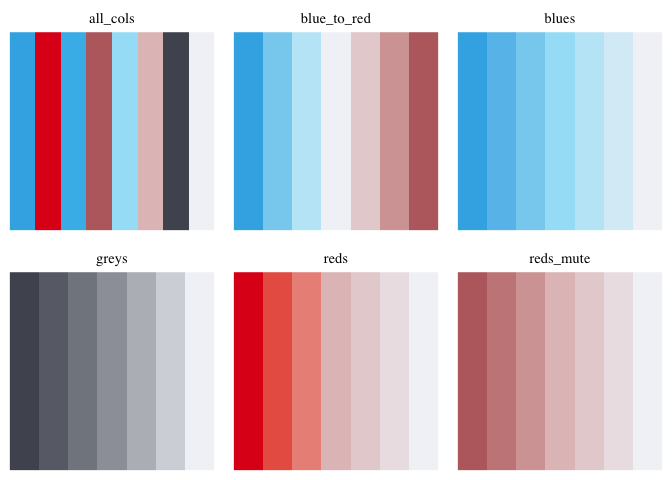
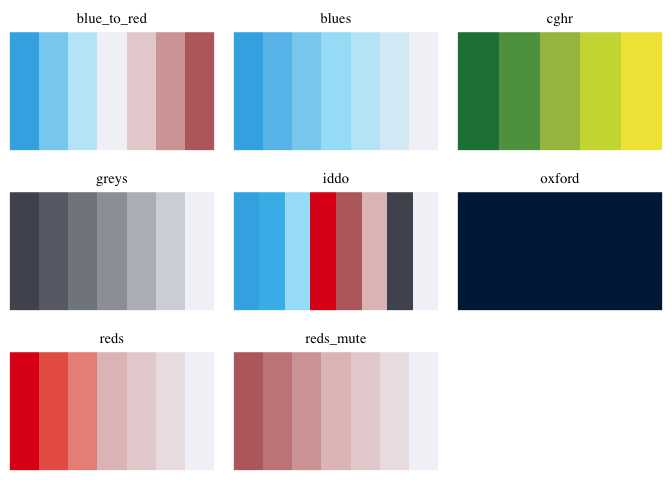
added palettes; updated README

diff --git a/README.md b/README.md
@@ -35,7 +35,7 @@ devtools::install_github("luharr/iddoPal")
 library(iddoPal)
 ```
 
-`iddoPal` comes with 1 1 discrete colour palette and 5 sequential colour
+`iddoPal` comes with 1 3 discrete colour palette and 5 sequential colour
 palettes, which can be accessed from the following R objects:
 
 - `iddo_palettes_discrete` for discrete palettes
@@ -113,7 +113,7 @@ ggplot(faithfuld,
 
 # This isn't very elegant but I promise Base Graphics is usually the most 
 # straightforward way of doing things ! I promise !
-pal <- iddo_palettes$all_cols[c(1,2,7)]
+pal <- iddo_palettes$iddo[c(1,4,7)]
 
 plot(iris$Sepal.Length, iris$Petal.Length, 
      col = alpha(pal[as.numeric(as.factor(iris$Species))], 0.5),
